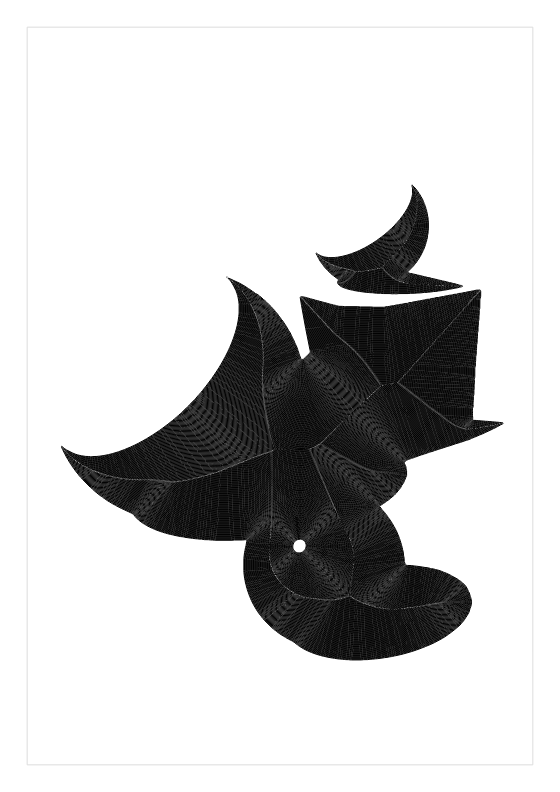
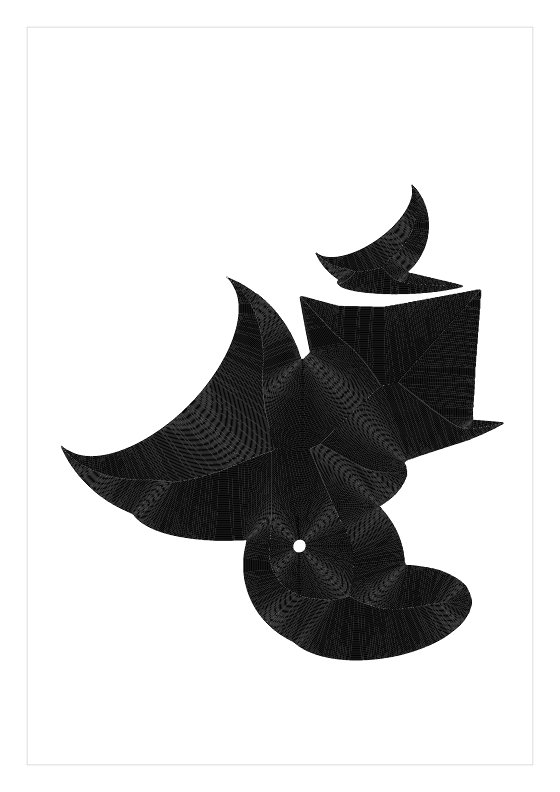
Fill ink shapes solid through their corners
The ink style smoothed every fill ring with the same Gaussian, so each
ring's corner rounded by about the same amount while a true inward
offset rounds less. Consecutive rings parted along each corner's
bisector and left a hole per ring pair, which the crumb rule then
dropped: dotted white lines along the ridges of filled shapes.

The outer ring is now smoothed once, by the smaller of one pen and two
tone pixels, and the inner rings are iso-lines of the distance
transform of the cells it encloses (new raster::fill, an even-odd
scan-line fill), so they are its offset curves and stay a spacing
apart through every corner. On an 8 mm square at 0.05 mm/px with a
0.5 mm pen, 272 uncovered sample points (worst 0.40 mm from a line)
drop to none with the same 10 paths.

- ink stage version 2; new test a_square_fills_solid_into_its_corners
- ink's auto tone response is now a listed no-op: solid fills measure
  0 or 1 per wedge patch, so the lookup turns about the threshold
- gallery snapshot: only the six ink cells move (paths -0.6 to -6%,
  pen-up travel down up to 20%); README ink picture redrawn
- decision file and brief row amendment, changelog entry

diff --git a/crates/core/src/stages/ink.rs b/crates/core/src/stages/ink.rs
@@ -4,9 +4,14 @@
 //!
 //! The tone map is resampled bilinearly onto a finer working grid, so edges fall between pixels
 //! and the rings come out smooth, softened by half a tone pixel of Gaussian blur against pixel
-//! steps and compression noise, and thresholded into a mask. The rings are iso-lines of the
-//! mask's distance transform; the ink no ring covers is thinned to a skeleton and walked into
-//! centrelines. The algorithms are cited in [`crate::raster`].
+//! steps and compression noise, and thresholded into a mask. The outer ring is an iso-line of the
+//! mask's distance transform, smoothed once; the inner rings are iso-lines of the distance
+//! transform of the area it encloses. Those are its offset curves (R. T. Farouki and C. A. Neff,
+//! "Analytic properties of plane offset curves", *Computer Aided Geometric Design* 7, 1990,
+//! pp. 83-99), so neighbouring rings stay a spacing apart through every corner, where rings
+//! smoothed one by one would each round the corner alike and part along its bisector. The ink no
+//! ring covers is thinned to a skeleton and walked into centrelines. The algorithms are cited in
+//! [`crate::raster`].
 
 use std::sync::Arc;
 
@@ -72,9 +77,12 @@ const CELLS_PER_PEN: f64 = 6.0;
 const OVERHANG: f64 = 0.25;
 /// The blur before thresholding, in tone pixels.
 const SOFTEN: f64 = 0.5;
-/// Rings are smoothed along a Gaussian of this many pen widths: neighbouring rings then follow
-/// each other instead of wobbling apart on the grid's steps and leaving gaps in a fill.
+/// The outer ring is smoothed along a Gaussian of at most this many pen widths, so it does not
+/// wobble on the tone map's pixel steps; the inner rings follow it.
 const RING_BLUR: f64 = 1.0;
+/// Two tone pixels of that smoothing already iron out the pixel steps, so on a fine map the
+/// smoothing stops there and the rings keep the shape's corners.
+const PIXEL_BLUR: f64 = 2.0;
 /// Centrelines are smoothed less, so the turns of a stroke stay sharp.
 const LINE_BLUR: f64 = 0.6;
 /// Missed ink inside a square this many pens wide is left to the rings around it.
@@ -93,7 +101,7 @@ impl Stage for InkStage {
         "Ink"
     }
     fn version(&self) -> u32 {
-        1
+        2
     }
     fn requires(&self) -> &'static [Kind] {
         &[Kind::Tone, Kind::Pens]
@@ -246,20 +254,29 @@ impl StageRun for InkRun {
                 if self.s.mode != InkMode::Centreline {
                     let g = self.grid.as_ref().unwrap();
                     let pen_cells = self.pen / g.cell_mm;
-                    let depth = raster::distance(&g.mask, g.w, g.h);
                     // The distance is 1 at an edge cell, whose centre is half a cell inside.
                     let first = 0.5 + (0.5 - OVERHANG) * pen_cells;
-                    let last = if self.s.mode == InkMode::Outline {
-                        first
-                    } else {
-                        f64::INFINITY
+                    let outer = {
+                        let depth = raster::distance(&g.mask, g.w, g.h);
+                        raster::iso_lines(&depth, g.w, g.h, first, 1.0, first)
                     };
-                    let step = self.s.spacing * pen_cells;
-                    let rings = raster::iso_lines(&depth, g.w, g.h, first, step, last);
                     // Smoothed before the coverage test, so it judges the rings that get drawn.
-                    self.rings =
-                        self.polish(rings.into_iter().map(|r| (r, true)).collect(), RING_BLUR);
-                    let rings = std::mem::take(&mut self.rings);
+                    let blur = RING_BLUR.min(PIXEL_BLUR * g.k as f64 / pen_cells);
+                    let mut rings =
+                        self.polish(outer.into_iter().map(|r| (r, true)).collect(), blur);
+                    if self.s.mode == InkMode::Fill {
+                        // Inner rings are offsets of the smoothed outer ring, so each stays a
+                        // spacing from the next through the corners; a smooth loop's distance
+                        // transform needs only the least smoothing. A cell's distance to the
+                        // nearest cell outside the ring is never less than its distance to the
+                        // ring, so the first inner ring is at most a spacing in.
+                        let inside = raster::distance(&raster::fill(&rings, g.w, g.h), g.w, g.h);
+                        let step = self.s.spacing * pen_cells;
+                        let inner = raster::iso_lines(&inside, g.w, g.h, step, step, f64::INFINITY);
+                        rings.extend(
+                            self.polish(inner.into_iter().map(|r| (r, true)).collect(), 0.0),
+                        );
+                    }
                     self.add(&rings);
                     self.rings = rings;
                 }
@@ -420,6 +437,41 @@ mod tests {
         }
         assert_eq!(frames.len(), 3);
         assert_inside(&paths, [10.0, 10.0, 8.0, 8.0]);
+    }
+
+    #[test]
+    fn a_square_fills_solid_into_its_corners() {
+        // An 8 mm square on a 0.05 mm grid, from (11, 11) to (19, 19) mm on the page. Where fill
+        // rings from two sides meet along a diagonal, each ring must stay within a pen of the next.
+        let square = map(200, 200, 0.05, |x, y| {
+            (1.0..9.0).contains(&x) && (1.0..9.0).contains(&y)
+        });
+        let (_, paths) = run(square, 0.5, json!({}));
+        let segs: Vec<([f64; 2], [f64; 2])> = paths
+            .iter()
+            .flat_map(|p| p.windows(2).map(|s| (s[0], s[1])).collect::<Vec<_>>())
+            .collect();
+        let mut gaps = Vec::new();
+        for i in 0..160 {
+            for j in 0..160 {
+                let q = [11.025 + f64::from(i) * 0.05, 11.025 + f64::from(j) * 0.05];
+                let near = segs
+                    .iter()
+                    .map(|&(a, b)| seg_dist(q, a, b))
+                    .fold(9.0, f64::min);
+                if near > 0.25 {
+                    gaps.push((q, near));
+                }
+            }
+        }
+        let worst = gaps.iter().map(|g| g.1).fold(0.0, f64::max);
+        assert!(
+            gaps.is_empty(),
+            "{} gaps, worst {worst}: {:?}",
+            gaps.len(),
+            &gaps[..gaps.len().min(8)]
+        );
+        assert!(paths.len() <= 12, "{} paths", paths.len());
     }
 
     #[test]

diff --git a/crates/core/src/raster.rs b/crates/core/src/raster.rs
@@ -14,6 +14,8 @@
 //!   the cell's mean.
 //! - Thinning: T. Y. Zhang and C. Y. Suen, "A Fast Parallel Algorithm for Thinning Digital
 //!   Patterns", *Communications of the ACM* 27(3), 1984, pp. 236-239.
+//! - Filling: the even-odd scan-line polygon fill, as in J. D. Foley, A. van Dam, S. K. Feiner and
+//!   J. F. Hughes, *Computer Graphics: Principles and Practice*, 2nd ed., Addison-Wesley 1990.
 //! - Simplification: D. H. Douglas and T. K. Peucker, "Algorithms for the reduction of the number
 //!   of points required to represent a digitized line or its caricature", *The Canadian
 //!   Cartographer* 10(2), 1973, pp. 112-122.
@@ -407,6 +409,33 @@ pub fn cover(lines: &[Vec<[f64; 2]>], w: usize, h: usize, radius: f64) -> Vec<bo
     out
 }
 
+/// Which cells have their centre inside the closed `lines` (cell coordinates) by the even-odd
+/// rule, so a loop inside another cuts a hole. Each row is filled between successive crossings.
+pub fn fill(lines: &[Vec<[f64; 2]>], w: usize, h: usize) -> Vec<bool> {
+    let mut rows: Vec<Vec<f64>> = vec![Vec::new(); h];
+    for s in lines.iter().flat_map(|l| l.windows(2)) {
+        let (a, b) = (s[0], s[1]);
+        // Rows from the lower end up to but not including the upper one, so a vertex on a row
+        // counts once.
+        let lo = a[1].min(b[1]).ceil().max(0.0) as usize;
+        let hi = (a[1].max(b[1]).ceil().max(0.0) as usize).min(h);
+        for (y, row) in rows.iter_mut().enumerate().take(hi).skip(lo) {
+            let t = (y as f64 - a[1]) / (b[1] - a[1]);
+            row.push(a[0] + t * (b[0] - a[0]));
+        }
+    }
+    let mut out = vec![false; w * h];
+    for (y, row) in rows.iter_mut().enumerate() {
+        row.sort_by(f64::total_cmp);
+        for &[a, b] in row.as_chunks::<2>().0 {
+            let x0 = (a.floor() + 1.0).max(0.0) as usize;
+            let x1 = (b.ceil().max(0.0) as usize).min(w);
+            out[y * w + x0.min(x1)..y * w + x1].fill(true);
+        }
+    }
+    out
+}
+
 /// `line` smoothed by a Gaussian of `sigma` vertices along it. A closed line (last vertex equal
 /// to the first) wraps around and stays closed; an open one keeps its end points.
 pub fn smooth(line: &[[f64; 2]], sigma: f64, closed: bool) -> Vec<[f64; 2]> {
@@ -520,6 +549,21 @@ mod tests {
                 d[i]
             );
         }
+    }
+
+    #[test]
+    fn fill_sets_the_cells_inside_and_a_nested_loop_cuts_a_hole() {
+        let square = |lo: f64, hi: f64| vec![[lo, lo], [hi, lo], [hi, hi], [lo, hi], [lo, lo]];
+        // The diamond's corners sit on rows of cell centres: the side corners' row still fills,
+        // and the top and bottom corners add no cell.
+        let diamond = vec![[4.0, 1.0], [7.0, 4.0], [4.0, 7.0], [1.0, 4.0], [4.0, 1.0]];
+        let (w, h) = (9, 9);
+        let set = |m: &[bool]| (0..w * h).filter(|&i| m[i]).count();
+        let ring = fill(&[square(1.5, 6.5), square(3.5, 4.5)], w, h);
+        assert_eq!(set(&ring), 24);
+        assert!(ring[2 * w + 2] && !ring[4 * w + 4] && !ring[w + 1]);
+        // Rows 2 to 6 hold 1, 3, 5, 3 and 1 cells strictly inside.
+        assert_eq!(set(&fill(&[diamond], w, h)), 13);
     }
 
     #[test]

diff --git a/crates/core/tests/settings_matter.rs b/crates/core/tests/settings_matter.rs
@@ -29,6 +29,12 @@ const NO_OPS: &[(&str, &str, &str, &str)] = &[
         "contrast pivots on mid-grey, which is where ink's default threshold sits",
     ),
     (
+        "ink",
+        "tone",
+        "response",
+        "ink fills every wedge patch fully or not at all, so the lookup turns about its threshold",
+    ),
+    (
         "waves",
         "order",
         "min_length_mm",

diff --git a/docs/decisions/2026-10-16-ink-fill-rings-as-offsets.md b/docs/decisions/2026-10-16-ink-fill-rings-as-offsets.md
@@ -1,0 +1,19 @@
+# Ink fill rings as offsets of the outer ring
+
+**Decided:** 2026-10-16
+
+**Choice:** Amends the brief's "Ink style" row. The `ink` stage's outer ring is still the iso-line of the mask's distance transform a quarter pen inside the edge, now smoothed along a Gaussian of the smaller of one pen width (`RING_BLUR`) and two tone pixels (`PIXEL_BLUR`). In `fill` mode the inner rings are the iso-lines, at whole multiples of the spacing, of the distance transform of the cells the smoothed outer ring encloses (`raster::fill`, an even-odd scan-line fill), and they get only the least smoothing, a Gaussian of one working cell. Those iso-lines are the outer ring's offset curves (R. T. Farouki and C. A. Neff, "Analytic properties of plane offset curves", *Computer Aided Geometric Design* 7, 1990). Before, every ring was an iso-line of the mask's distance transform smoothed along a Gaussian of one pen width. Missed ink smaller than a square of `CRUMB` pens is still dropped. The stage's version goes to 2, as its output changed.
+
+**Reason:** Smoothing every ring alike rounds each ring's corner by about the same amount, but an inward offset of a rounded corner has a smaller rounding radius, so the old rings parted along each corner's bisector and every ring pair left a hole there. The preview, which strokes paths at the pen's true width, showed these holes as dotted white lines along the ridges of filled shapes, and the crumb rule then dropped them. On an 8 mm square on a 0.05 mm tone map with a 0.5 mm pen, 272 of the square's 25,600 sample points lay more than half a pen from every path, the worst 0.40 mm from a line; now none does, with the same 10 paths (`a_square_fills_solid_into_its_corners`).
+
+A throwaway measurement drew 8 shapes (squares turned 0, 4, 12 and 30 degrees, a disc, an annulus, a 60-degree triangle and an L) on tone maps of 0.05, 0.2 and 0.5 mm pixels, with 0.3 and 0.5 mm pens, and sampled every 0.05 mm. Points more than a pen inside a shape that no path covered fell from 6,981 to 1,026, points nearer the edge from 3,050 to 1,392, and paths from 648 to 608. On the 0.05 mm maps the four squares, the disc and the annulus now fill without a gap at both pen widths.
+
+Alternatives, measured on the same shapes unless said otherwise:
+
+- Less smoothing for the inner rings, without the second transform (the outer ring at one pen, the inner rings at one cell), also closed the corners (1,926 inner points), but the inner rings then wobbled on the tone map's pixel steps: on the 0.5 mm map with the 0.3 mm pen a disc's rings strayed from round by up to 0.54 pen, where the old rings reach 0.32 pen and the offsets 0.37. Pixel steps in the mask carry into every ring of its distance transform; offsets of one smoothed ring inherit only the working grid's half-cell steps.
+- Smoothing the distance field once instead of the rings was not built: near a corner the field is the lesser of two planes, and blurring it makes each iso-line a copy of the last moved along the bisector rather than an offset, which leaves the same holes.
+- One pen of smoothing on the outer ring rounded a filled square's own corners by more than the pen reaches on a fine map. Two tone pixels already iron out the pixel steps, and on coarse maps one pen stays the limit, as before.
+- Inner levels at half a cell plus whole spacings, matching the outer ring's edge convention, put the deep rings about 0.4 cells further in, because a cell's distance to the nearest cell outside the ring overstates its distance to the ring by up to a cell near the ring and by less deeper in. That lost the 3 mm disc's tiny centre ring. Whole spacings keep the first inner ring at most a spacing from the outer one.
+- Drawing every missed crumb that leaves a point more than half a pen from every ring closed more gaps but raised the path count by about half in a trial, mostly dots along the bisectors of corners sharper than about 74 degrees. There even exact offsets leave a hole at the default spacing: the gap along the bisector of a corner of angle `a` is `spacing / (1 + sin(a / 2))`, more than half a pen below 74 degrees at a spacing of 0.8. So crumbs stay dropped, as before.
+
+What still leaves gaps, and is not a law for that reason: corners sharper than about 74 degrees, the middle of a shape whose depth falls between two rings, where the leftover sliver or centre is dropped as a crumb, and tone maps whose pixels are about as wide as the pen.

diff --git a/docs/BRIEF.md b/docs/BRIEF.md
@@ -333,7 +333,7 @@ From 2026-10-16, new decisions are files in [docs/decisions/](decisions/README.m
 | Built-in machines | None, decided on 2026-10-12. The GUI's "New machine" starts from placeholder values, and a user keeps their machine in their own preset | A machine's area and pen heights are measured on one rig, so a built-in is unsafe on anyone else's, and the owner's test rig was meant as a personal preset. Naming a built-in after a commercial printer also broke the rule on other products. |
 | Line styles first | `hatch`, `waves` and `spiral` were built on 2026-10-12 under [the line styles spec](superpowers/specs/2026-10-12-line-styles-design.md), before the Voronoi family; their wobble is clamped to the tone map and the G-code writer refuses a vertex off the page | The owner tests on a pen-fitted 3D printer, where every pen lift is a Z move that wears the machine, and long strokes give tone with few lifts. The clamp and the check keep a style from sending the pen outside the machine's area. |
 | GUI look | Hand-written CSS on colour tokens declared with `light-dark()`; light and dark themes that follow the system, with a toolbar button to pin either one, kept in the browser; Lucide icons (ISC) through `lucide-preact`, their licence shipped beside the bundle like preact's; no CSS framework or component library; the paper stays white in both themes | The owner asked on 2026-10-12 for a more modern look with a dark mode. The form is generated from the stage schemas, so a few dozen rules on the native controls restyle every panel at once, and `color-scheme` switches the native controls and scrollbars too. A utility-class framework would rewrite every component's markup, and the common component libraries target React and need a compatibility layer. ISC is permissive and the icons are tree-shaken to the dozen in use. The paper is the real sheet, so only the backdrop around it changes with the theme. |
-| Ink style | `ink` (tone, ink, order) outlines every ink shape and fills it with rings from the mask's distance transform, and draws ink too thin for a ring down its middle from a thinned skeleton; built on 2026-10-12 under [the ink and cleanup spec](superpowers/specs/2026-10-12-ink-and-cleanup-design.md) | The owner's best plots came from this method in a separate script. A test pass on 34 images showed that no other style keeps the shapes and weights of line art. |
+| Ink style | `ink` (tone, ink, order) outlines every ink shape and fills it with rings from the mask's distance transform, and draws ink too thin for a ring down its middle from a thinned skeleton; built on 2026-10-12 under [the ink and cleanup spec](superpowers/specs/2026-10-12-ink-and-cleanup-design.md); amended on 2026-10-16, see [docs/decisions/2026-10-16-ink-fill-rings-as-offsets.md](decisions/2026-10-16-ink-fill-rings-as-offsets.md): the inner rings are offsets of the smoothed outer ring | The owner's best plots came from this method in a separate script. A test pass on 34 images showed that no other style keeps the shapes and weights of line art. |
 | Style defaults | A style may override the defaults of its stages; `ink` sets `tone.resolution` to 2500, and `waves`, `spiral` and `mosaic` set `tone.gamma` to 1.9 (amended on 2026-10-12 and 2026-10-15, see "Rippling gamma") | Averaging a drawing into 1000 pixels greys out its hairlines, and the other styles need no finer map. |
 | Hatch defaults | Three levels from threshold 0.25, and a light gap narrower than the spacing does not end a line. Amended on 2026-10-16: a line never ends between two neighbouring samples, which are half a tone-map pixel apart | At one level the default turned a photograph into a silhouette, and on engravings unbridged gaps gave up to six times more strokes and as much pen-up travel as pen-down. With a spacing under half a pixel, bridging only the spacing ended a line at every sample, and a one-sample line draws nothing, so hatch drew almost nothing; the property laws found it. |
 | WebP input | The image crate's `webp` decoder (`image-webp`, MIT or Apache-2.0) is enabled | Images saved from the web are often WebP; two of the owner's eight test images were. |

diff --git a/changelog.d/ink-fill-corners.md b/changelog.d/ink-fill-corners.md
@@ -1,0 +1,3 @@
+Section: Styles
+
+- **Ink fills:** filled shapes in the `ink` style no longer show dotted white lines along the ridges where the fill rings from two sides meet at a corner. The inner rings now follow the outer ring as its offsets, so each stays one spacing from the next through every corner, and on a fine tone map the outer ring keeps the shape's corners as sharp as the pen can draw them.
